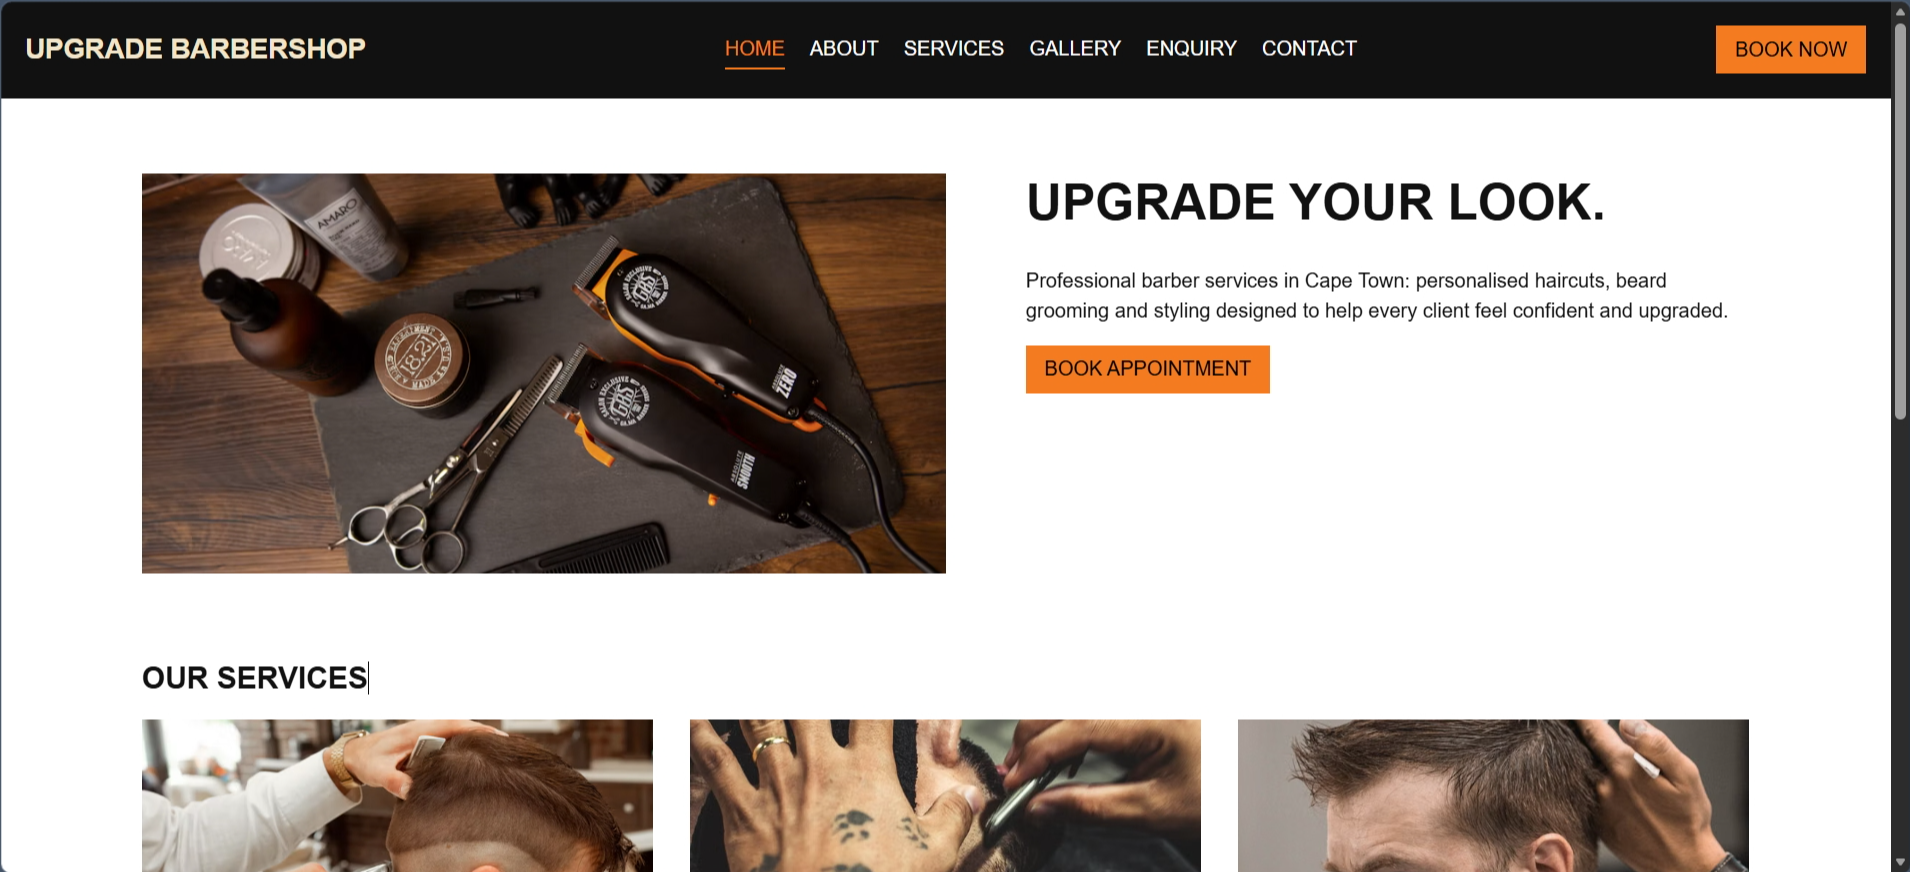
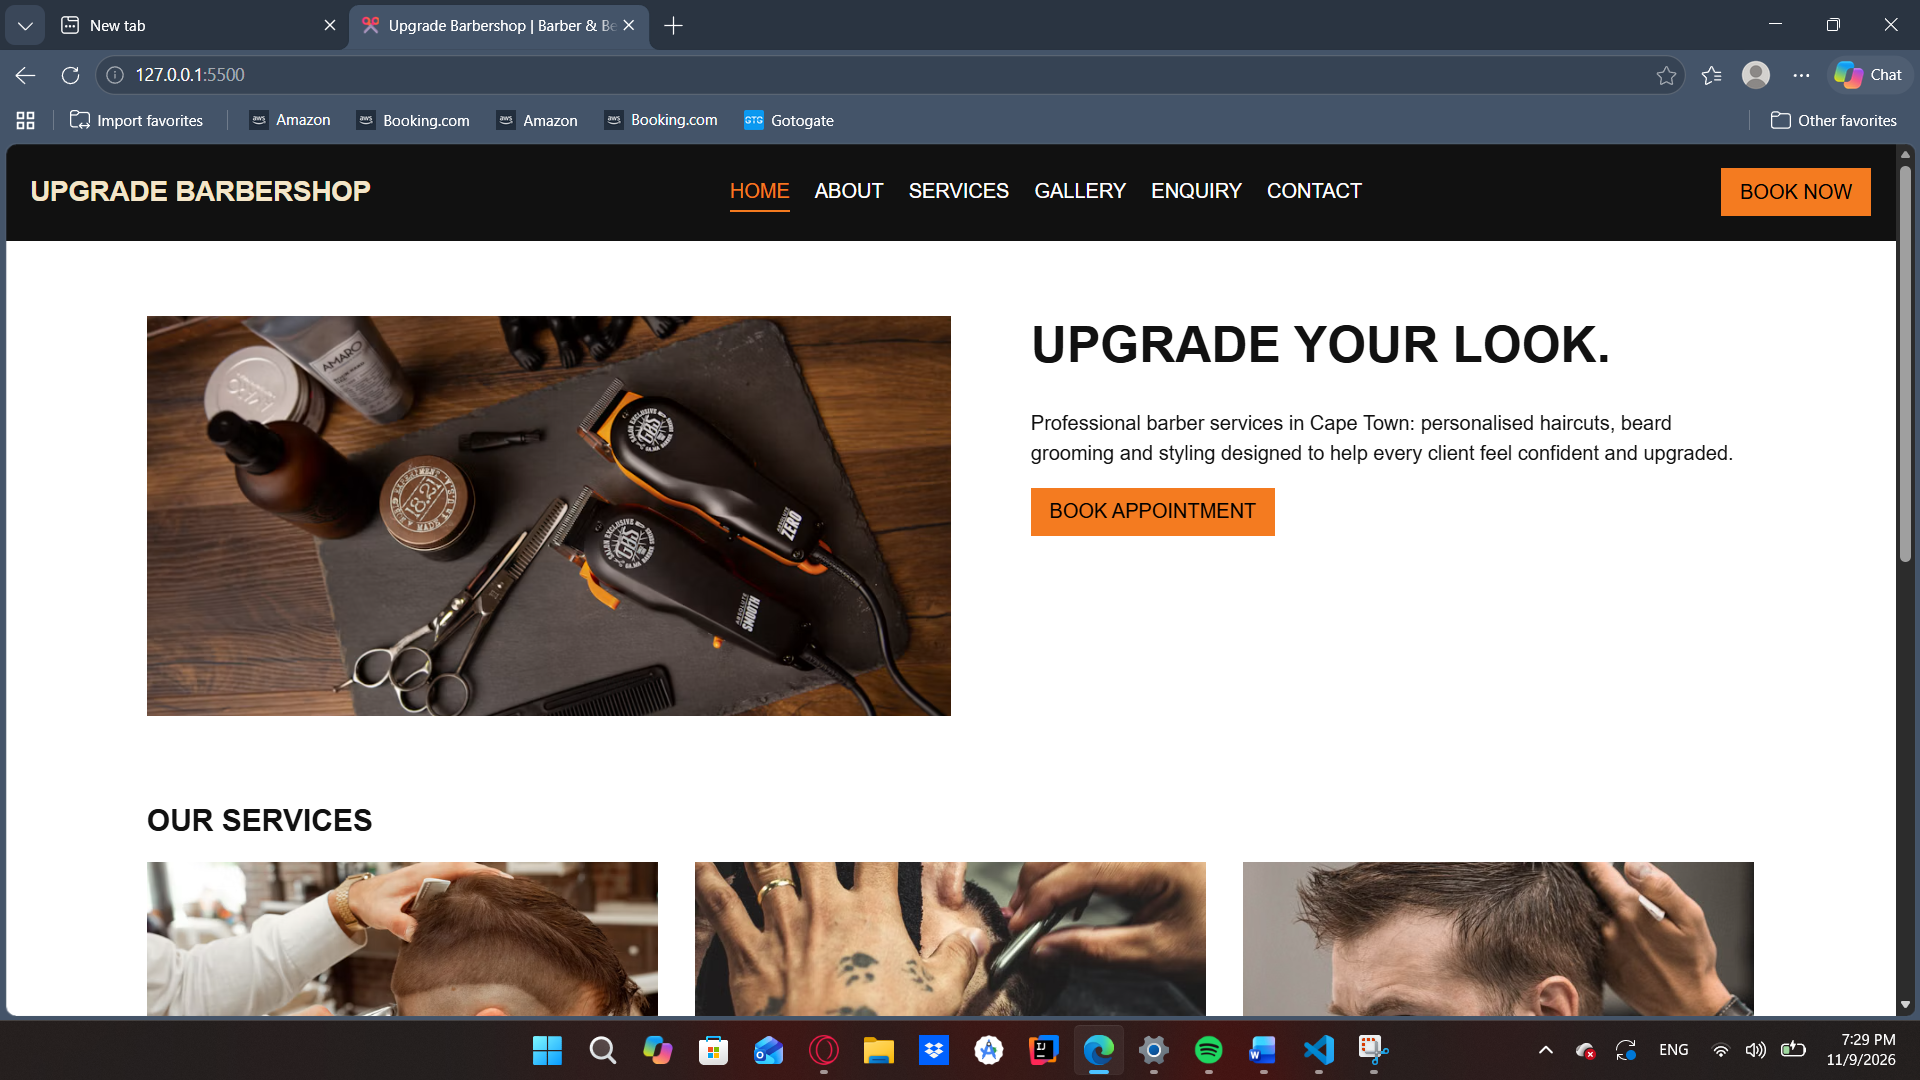
correct size of screen images, update to README and improvment of indentation

diff --git a/CSS/style.css b/CSS/style.css
@@ -1,4 +1,3 @@
-/* Basic page style */
 
 *,
 *::before,
@@ -30,7 +29,7 @@ textarea:focus-visible {
     outline-offset: 2px;
 }
 
-/* Website header */
+/*  header */
 
 header {
     display: flex;
@@ -50,7 +49,7 @@ header {
     white-space: nowrap;
 }
 
-/* Navigation menu */
+/* Nav menu */
 
 nav {
     flex: 1;
@@ -132,7 +131,7 @@ main {
     cursor: pointer;
 }
 
-/* Services section and cards */
+/* Servicessection and cards */
 
 .services {
     margin-bottom: 60px;
@@ -169,8 +168,12 @@ main {
     margin: 8px 0 0;
 }
 
-/* Price (and button) stay at the bottom so every card lines up */
-.card .price {
+
+
+/* Price stay at the bottom so every card lines up */
+
+
+.card .price   {
     font-weight: bold;
     margin-top: auto;
     padding-top: 12px;
@@ -181,7 +184,10 @@ main {
     margin-top: 12px;
 }
 
+
 /* Promotions section */
+
+
 
 .promotion {
     background-color: #111111;
@@ -244,6 +250,7 @@ main {
 }
 
 .form input,
+
 .form select,
 .form textarea {
     display: block;
@@ -295,13 +302,13 @@ footer div {
     flex: 1 1 200px;
 }
 
-footer h3 {
+  footer h3 {
     color: #f47b20;
     margin-top: 0;
 }
 
 
-/* ===== Part 3 additions ===== */
+/*  Part 3 new additions  */
 
 /* Accessibility helpers */
 
@@ -387,6 +394,7 @@ main {
     transform: scale(0.97);
 }
 
+/* new trasnition added */
 .card,
 .location {
     transition: box-shadow 0.3s ease, opacity 0.6s ease, transform 0.6s ease;
@@ -400,6 +408,7 @@ main {
 .card img {
     transition: filter 0.3s ease;
 }
+
 
 .card:hover img {
     filter: brightness(1.1);
@@ -450,7 +459,7 @@ main {
     min-height: 1.5em;
 }
 
-/* Forms: validation messages and status */
+/* Forms- validation messages and status */
 
 .form .invalid {
     border: 2px solid #b3261e;
@@ -753,7 +762,7 @@ body.no-scroll {
     margin-top: 20px;
 }
 
-/* Respect visitors who prefer less motion */
+/* Respect visitors who prefer less motionm */
 
 @media (prefers-reduced-motion: reduce) {
     *,
@@ -769,7 +778,7 @@ body.no-scroll {
 
 @media (max-width: 900px) {
 
-    /* Logo and button share the first row, menu goes on its own row below */
+    /* Logo and button share the first row, */
     nav {
         order: 3;
         flex: 0 0 100%;
@@ -799,7 +808,7 @@ body.no-scroll {
 }
 
 
-/* Mobile version */
+/* Phone version */
 
 @media (max-width: 600px) {
 

diff --git a/index.html b/index.html
@@ -9,7 +9,7 @@
     <meta name="referrer" content="strict-origin-when-cross-origin">
     <link rel="canonical" href="https://upgradebarbershop.netlify.app/">
 
-    <!-- Open Graph and Twitter (social sharing) -->
+    <!-- Open Graph and social media (social sharing) -->
     <meta property="og:type" content="website">
     <meta property="og:site_name" content="Upgrade Barbershop">
     <meta property="og:title" content="Upgrade Barbershop | Barber &amp; Beard Grooming in Cape Town">
@@ -111,9 +111,14 @@
     <script src="js/main.js" defer></script>
 </head>
 <body>
-<a class="skip-link" href="#main">Skip to main content</a>
+  <a class="skip-link" href="#main">Skip to main content</a>
+
+
 
 <!-- Header and navigation -->
+
+
+
 <header>
     <a class="logo" href="index.html">UPGRADE BARBERSHOP</a>
     <nav aria-label="Main navigation">
@@ -142,12 +147,13 @@
         <h2>OUR SERVICES</h2>
 
         <div class="cards">
-            <div class="card">
+          <div class="card">
                 <img src="https://images.unsplash.com/photo-1593702275687-f8b402bf1fb5?auto=format&amp;fit=crop&amp;w=700&amp;q=80" alt="Classic haircut at Upgrade Barbershop" loading="lazy" decoding="async">
                 <h3>Classic Haircut</h3>
                 <p>Clean and personalised haircut.</p>
                 <p class="price">R180</p>
-            </div>
+          </div>
+          
             <div class="card">
                 <img src="https://images.pexels.com/photos/2062463/pexels-photo-2062463.jpeg?auto=compress&amp;cs=tinysrgb&amp;w=700" alt="Hair and beard grooming at Upgrade Barbershop" loading="lazy" decoding="async">
                 <h3>Hair + Beard</h3>
@@ -173,7 +179,7 @@
     </section>
 </main>
 
-<!-- Website footer (same on every page) -->
+<!-- Website footer (every page has te same) -->
 <footer>
     <div>
         <h3>CONTACT</h3>

diff --git a/services.html b/services.html
@@ -124,7 +124,7 @@
     <p class="more-link">Not sure which service suits you? Read about our <a class="text-link" href="about.html">philosophy</a> or send us an <a class="text-link" href="enquiry.html">enquiry</a>.</p>
 </main>
 
-<!-- Website footer (same on every page) -->
+<!-- Website footer  -->
 <footer>
     <div>
         <h3>CONTACT</h3>

diff --git a/gallery.html b/gallery.html
@@ -76,7 +76,7 @@
     <p class="more-link">Like what you see? <a class="text-link" href="services.html">Explore our services</a> or <a class="text-link" href="contact.html#booking">book your appointment</a>.</p>
 </main>
  
-<!-- Website footer (same on every page) -->
+<!-- Website footer  -->
 <footer>
     <div>
         <h3>CONTACT</h3>

diff --git a/contact.html b/contact.html
@@ -250,7 +250,7 @@
     </section>
 </main>
 
-<!-- Website footer (same on every page) -->
+<!-- Website footer  -->
 <footer>
     <div>
         <h3>CONTACT</h3>

diff --git a/enquiry.html b/enquiry.html
@@ -128,7 +128,7 @@
     </div>
 </main>
 
-<!-- Website footer (same on every page) -->
+<!-- Website footer  -->
 <footer>
     <div>
         <h3>CONTACT</h3>

diff --git a/README.md b/README.md
@@ -142,17 +142,16 @@ clear and usable across different screen sizes.
 
 ### Desktop
 
-![Desktop version](images/desktop-screen.png.png)
+![Desktop version](images/desktop-screen.png)
 
 ### Tablet
 
-![Tablet version](images/tablet_screen.png.png)
+![Tablet version](images/tablet-screen.png.png)
 
 ### Mobile
 
-![Mobile version](images/mobile_screen.png.png)
+![Mobile version](images/mobile-screen.png.png)
 
-![Mobile footer version](images/mobile_screen_footer.png.png)
 
 
 The website was tested on desktop, tablet and mobile screen sizes.
@@ -274,8 +273,15 @@ robots.txt and sitemap.xml: robots.txt allows crawling and points to sitemap.xml
 
 ## Deployment
 
-The website is deployed on Netlify from the GitHub repository, so every push to the main branch updates the live site.
+The website is deployed on Netlify from the GitHub repository, so every push to the main branch updates the live site. The link is: https://upgradebarbershop.netlify.app
 
+
+## Off-Page SEO and Social Media Promotion
+
+Instagram profile: https://www.instagram.com/upgradebarbershop/
+
+The profile is identified in its bio as a student project for a fictional barbershop.
+The website link (https://upgradebarbershop.netlify.app) is placed in the Instagram bio, which gives the site a backlink and a way for visitors to find it.
 
 
 ## Timeline and Milestones
@@ -315,6 +321,8 @@ Milestone	            Task	                                                     
 - Added security headers, SRI, honeypot protection and accessibility improvements.
 - Updated the README with Part 3 details, changelog and references.
 
+-Added the Instagram profile to the structured data and a social media promotion section to this README.
+-Updated this README with the Part 3 information, changelog and references.
 
 
 # References - Part 3
@@ -339,4 +347,3 @@ Netlify, n.d. Netlify Docs: Deploy sites and custom headers. Available at: https
 AI Declaration
 
 Claude (Anthropic) was used as an additional resource to help refine more complex areas, including the testing API and selected JavaScript elements, improving the overall functionality and professionalism of the project. All main development, decisions and implementation were carried out by the student.
-
